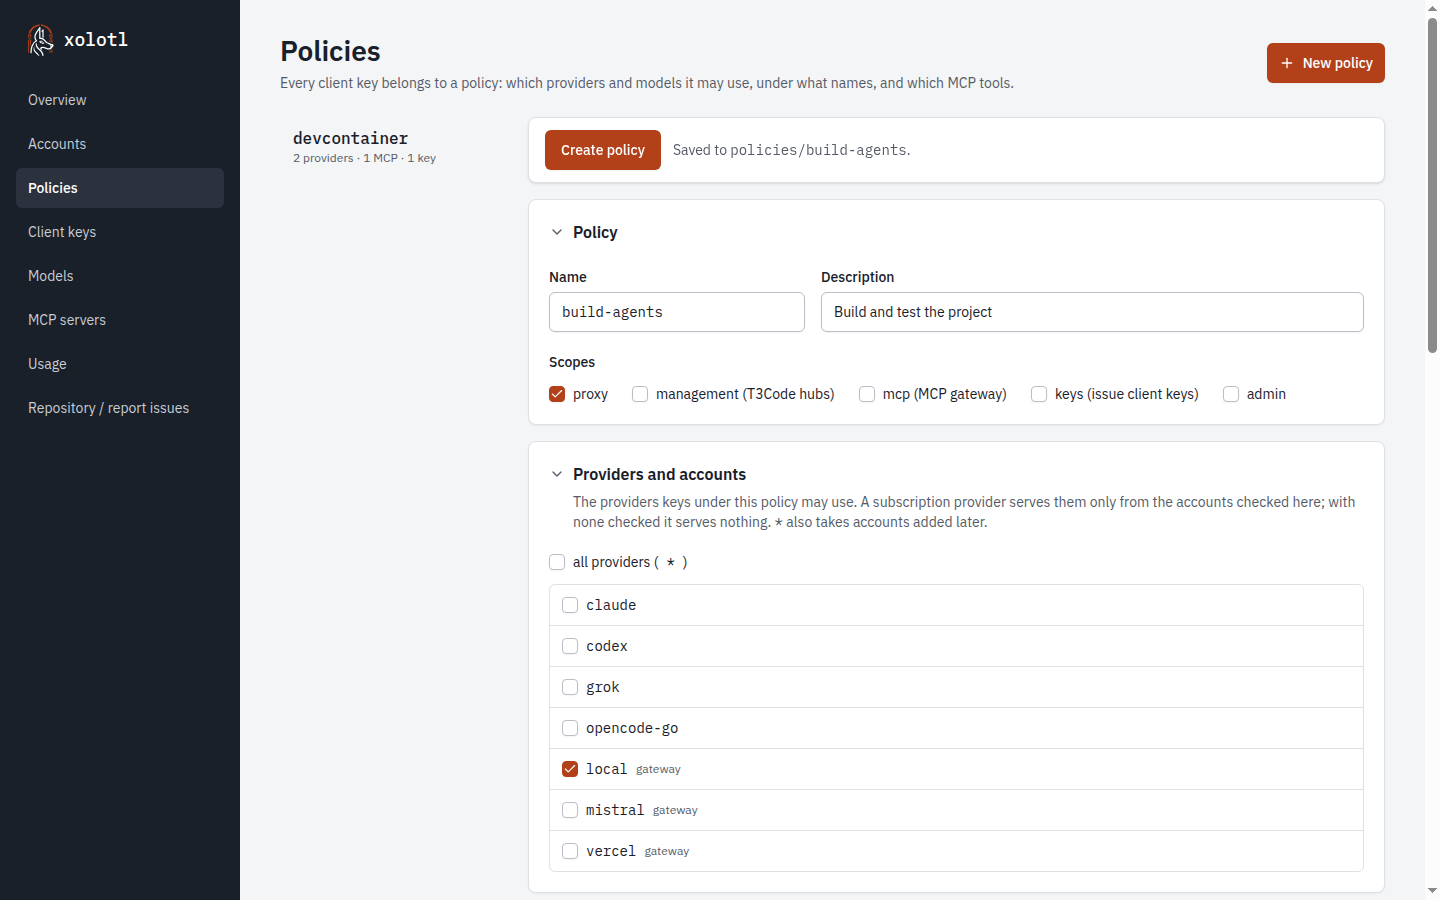
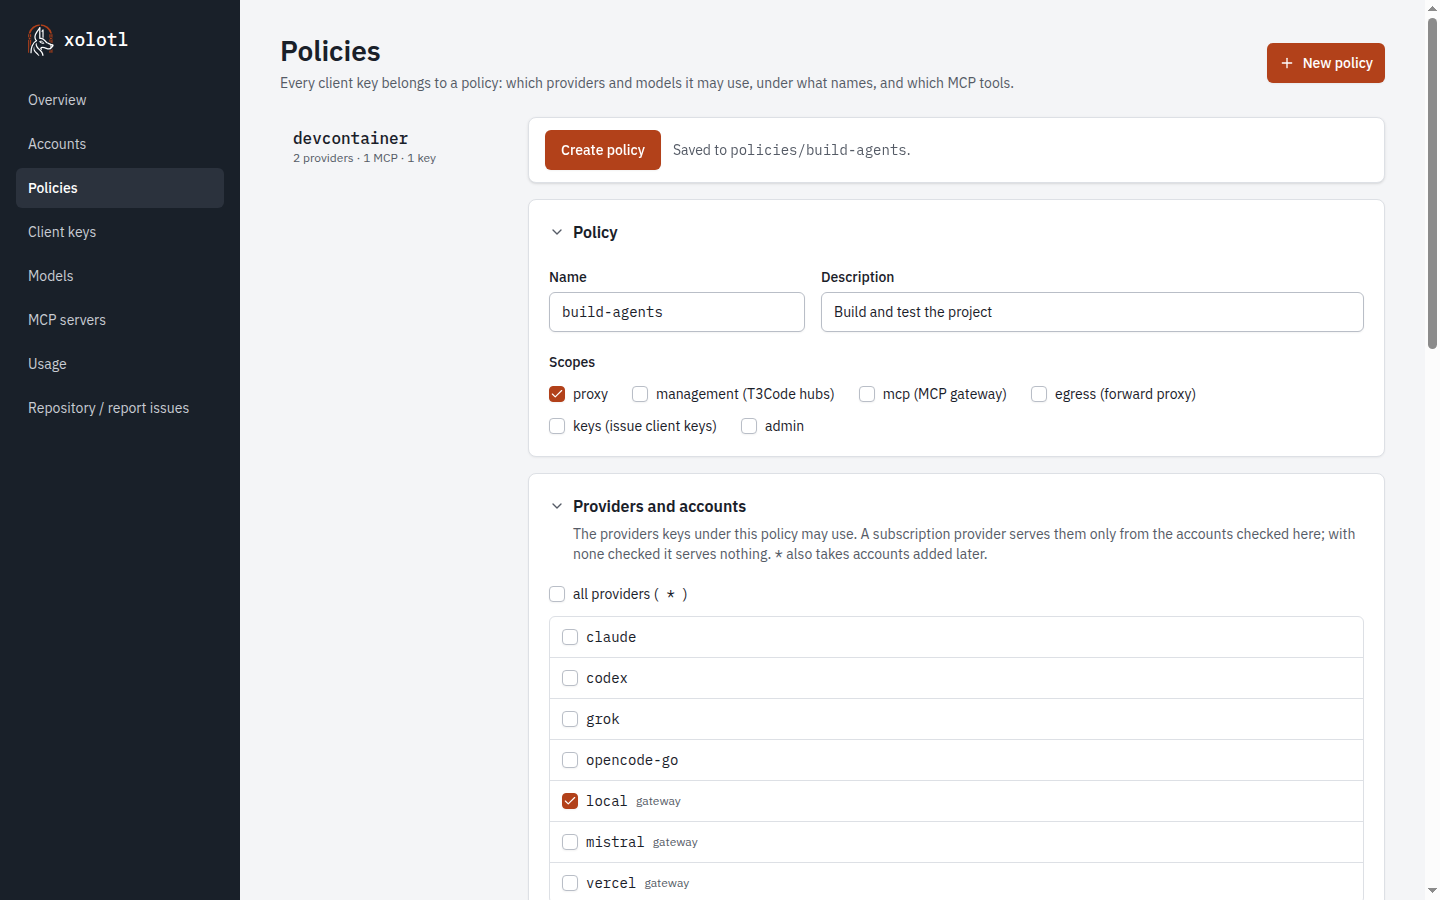
docs: refresh web UI captures for 0.7.0

Changed region(s): [[0.375, 0.4667, 0.9375, 0.9956], [0.7188, 0.4356, 0.8438, 0.4667], [0.875, 0.4356, 0.9062, 0.4667]]

diff --git a/docs/web-ui-demo.md b/docs/web-ui-demo.md
@@ -43,12 +43,13 @@ from run to run.
 | `accounts-list.png` | Account list with the sample subscription and provider |
 | `add-account.png` | Add account with subscription login and import controls |
 | `add-provider-account.png` | Provider account form |
-| `new-policy.png` | New policy with the name, description and provider selected |
+| `new-policy.png` | New policy with the name, description, available scopes and selected provider |
 | `policy-no-accounts.png` | Codex selected with its account unchecked |
 | `client-key-issued.png` | Issued client key with an expiry and OpenBao retrieval instructions |
 | `client-key-rotate.png` | Rotation dialog with a custom grace period |
 | `mcp-header-secret.png` | Upstream MCP server with a configured header secret and tool list |
 | `mcp-tool-calls.png` | Tool calls grouped by tool over 36 hours |
+| `usage-sessions.png` | Requests grouped by client, with a recorded session and tool call |
 | `models-catalog.png` | Model catalog with provider discovery and sample pricing |
 
 For a repeat capture, set `XOLOTL_DEMO_IMAGE` to a prebuilt local tag from this

diff --git a/tests/browser/request-usage/README.md b/tests/browser/request-usage/README.md
@@ -44,7 +44,9 @@ look-back boundaries use the container API and seeded SQLite rows. `axe.json`
 contains the main-page WCAG A/AA scan. Screenshots show desktop, phone, invalid
 input and query failure. The script also checks keyboard operation at phone width.
 
-`filters-desktop.png` regenerates `docs/user/assets/usage-sessions.png`.
+`filters-desktop.png` shows all four request filters applied. The
+[web UI demo recipe](../../../docs/web-ui-demo.md) captures `usage-sessions.png`
+with rows in Requests, Sessions, and Tools called.
 `usage-queries.gif` regenerates `docs/user/assets/usage-queries.gif`. The GIF shows
 applying a custom window and client filter, then correcting an invalid duration.
 Copy these outputs to the documentation assets when intentionally updating them.
